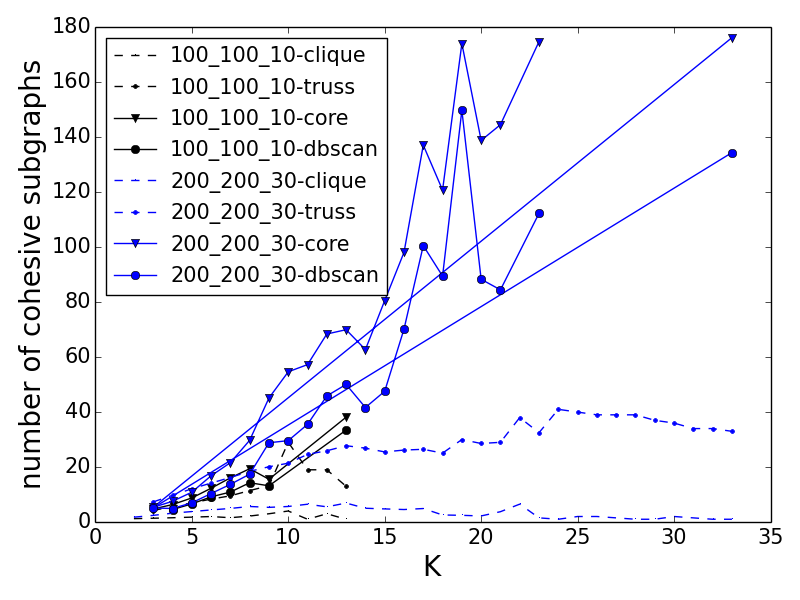
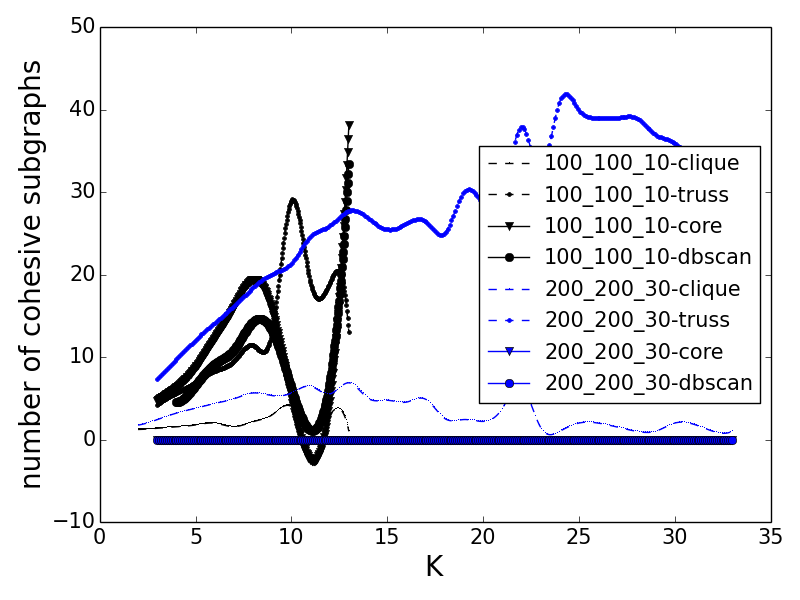
smooth

diff --git a/scripts/data_analysis.py b/scripts/data_analysis.py
@@ -108,7 +108,7 @@ class JsonStats:
         arr = numpy.array(item['x'])
         xnew   = numpy.linspace(arr.min(),arr.max(),300)
         smooth = spline(item['x'], item['y'], xnew) 
-        plt.plot(item['x'], item['y'], color=c, linestyle=ls, marker=mar, label = la)
+        plt.plot(xnew, smooth, color=c, linestyle=ls, marker=mar, label = la)
 
 
 
